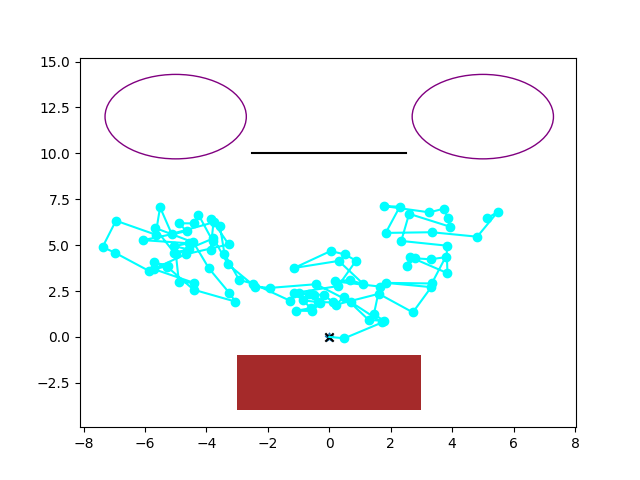
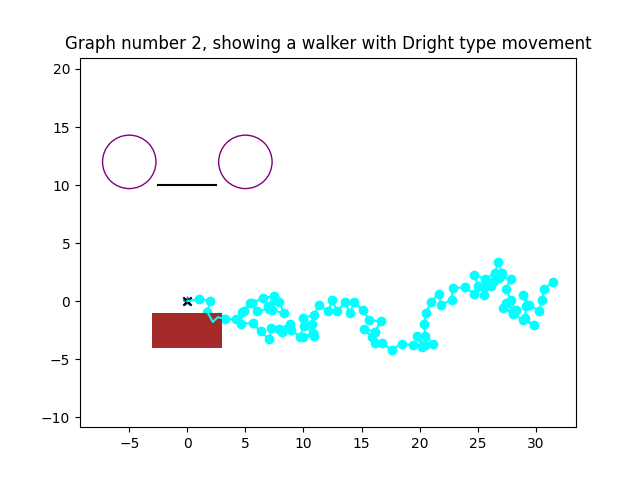
Edits to D type, titles for graphs

diff --git a/Code/walker.py b/Code/walker.py
@@ -14,12 +14,17 @@ import random
 
 Coordinates = Tuple[float,float]
 
+PI = math.pi
 MOVEMENTS = {
                     'A': "Random direction, step size 1 unit",
                     'B': "Random direction, step size chosen equally between [0.5,1.5]",
                     'C': "Random direction chosen equally between (Up,Down,Right,Left),\
                           step size 1 unit",
-                    'D': "Direction chosen at Random but favoring up, step site 1 unit"
+                    'Dup': "Direction chosen at Random but favoring up, step site 1 unit",
+                    'Ddown': "Direction chosen at Random but favoring down, step site 1 unit",
+                    'Dright': "Direction chosen at Random but favoring right, step site 1 unit",
+                    'Dleft': "Direction chosen at Random but favoring left, step site 1 unit",
+                    'Daxis': "Direction chosen at Random but favoring axis, step site 1 unit"
                     }
 COLORS = {'R': "red", 'G': "green", 'Y': "yellow", 'Bl': "blue", 'C': "cyan", 'Or': "orange",
           'Br': "brown", 'P': "Purple", 'Ol': "olive"}
@@ -38,12 +43,17 @@ class Walker:
                         'B': "Random direction, step size chosen equally between [0.5,1.5]",
                         'C': "Random direction chosen equally between (Up,Down,Right,Left),
                              step size 1 unit",
-                        'D': "Direction chosen at Random but favoring up, step site 1 unit"
+                        'Dup': "Direction chosen at Random but favoring up, step site 1 unit",
+                        'Ddown': "Direction chosen at Random but favoring down, step site 1 unit",
+                        'Dright': "Direction chosen at Random but favoring right, step site 1 unit",
+                        'Dleft': "Direction chosen at Random but favoring left, step site 1 unit",
+                        'Daxis': "Direction chosen at Random but favoring axis, step site 1 unit"
                         }
         :param location:a tuple representing the starting place for the Walker,
                         defualts to (0,0) for (x,y)
-        :param color:   a charcter representing the walker's color,
-                        from {'R': "Red", 'B': "Blue", 'G': "Green", 'Y': "Yellow", 'B': "Black"},
+        :param color:   a charcter representing the walker's color, from:
+                        {'R': "red", 'G': "green", 'Y': "yellow", 'Bl': "blue", 'C': "cyan",
+                        'Or': "orange", 'Br': "brown", 'P': "Purple", 'Ol': "olive"},
                         defaults to black.
         """
         self.__location = location
@@ -64,18 +74,18 @@ class Walker:
         DISTANCES = (0.5,1.5)
 
         # For C
-        DIRECTIONS = {'up': math.pi/2,
+        DIRECTIONS = {'up': PI/2,
                       'right': 0,
-                      'down': (3/2)*math.pi,
-                      'left': math.pi}
+                      'down': (3/2)*PI,
+                      'left': PI}
 
         if self.__movement == 'A':
-            angle = 2 * math.pi * random.random()
+            angle = 2 * PI * random.random()
             return (self.__location[0] + math.cos(angle),
                     self.__location[1] + math.sin(angle))
 
         if self.__movement == 'B':
-            angle = 2 * math.pi * random.random()
+            angle = 2 * PI * random.random()
             distance = random.choice(DISTANCES)
             return (self.__location[0] + distance * math.cos(angle),
                         self.__location[1] + distance * math.sin(angle))
@@ -85,8 +95,20 @@ class Walker:
             return (self.__location[0] + int(math.cos(angle)),
                     self.__location[1] + int(math.sin(angle)))
 
-        if self.__movement == 'D':
-            angle = random.gauss(math.pi, math.pi / 2) - math.pi/2
+        if self.__movement[0] == 'D':
+            angle = random.gauss(0, PI / 2)
+            inclination = self.__movement[1:]
+            if inclination in DIRECTIONS:
+                angle += DIRECTIONS[inclination]
+            elif inclination == "axis":
+                if self.__location[0] > 0:
+                    angle += math.tanh(self.__location[1] / self.__location[0]) + PI
+                elif self.__location[0] < 0:
+                    angle += math.tanh(self.__location[1] / self.__location[0])
+                else:
+                    angle -= math.copysign(PI, self.__location[1])
+            else:
+                raise AttributeError("Somewhere the second part of inclination changed")
             return (self.__location[0] + math.cos(angle),
                     self.__location[1] + math.sin(angle))
 
@@ -119,6 +141,13 @@ class Walker:
         return self.__location
 
     @property
+    def movement(self) -> str:
+        """
+        returns the walker's movement type
+        """
+        return self.__movement
+
+    @property
     def color(self) -> str:
         """
         returns a walkers color, as a full name
@@ -137,3 +166,4 @@ def pull_push(walkers: list[Walker], power: int = 1, gravity: bool = True) -> No
     Additional feature for a walkers that attract or push each other, for pairs
     """
     pass
+

diff --git a/Code/main.py b/Code/main.py
@@ -14,12 +14,60 @@ from portal import Portal
 from mud import Mud
 from simulation import Simulation
 
+import tkinter as tk
+from tkinter import filedialog
+import json
+"""
+class SimulationApp:
+    def __init__(self, root):
+        self.root = root
+        self.root.title("Random Walker Simulation")
+
+        # Create a frame to hold the input widgets
+        self.input_frame = tk.Frame(self.root)
+        self.input_frame.pack(padx=20, pady=20)
+
+        # Create a label and entry for number of objects
+        self.num_objects_label = tk.Label(self.input_frame, text="Number of Objects:")
+        self.num_objects_label.grid(row=0, column=0)
+        self.num_objects_entry = tk.Entry(self.input_frame)
+        self.num_objects_entry.grid(row=0, column=1)
+
+        # Create a button to add objects
+        self.add_objects_button = tk.Button(self.input_frame, text="Add Objects", command=self.add_objects)
+        self.add_objects_button.grid(row=0, column=2)
+
+        # Create a button to load simulation from json
+        self.load_button = tk.Button(self.input_frame, text="Load Simulation", command=self.load_simulation)
+        self.load_button.grid(row=1, columnspan=3)
+
+    def add_objects(self):
+        num_objects = int(self.num_objects_entry.get())
+        # Create input widgets for each object
+        for i in range(num_objects):
+            obj_label = tk.Label(self.input_frame, text=f"Object {i+1}:")
+            obj_label.grid(row=i+2, column=0)
+            # Add more input widgets as needed for each object's attributes
+
+    def load_simulation(self):
+        file_path = filedialog.askopenfilename(filetypes=[("JSON Files", "*.json")])
+        if file_path:
+            with open(file_path, 'r') as file:
+                simulation_data = json.load(file)
+            # Process the loaded simulation data, e.g., display key figures and graphs
+
+
+if __name__ == "__main__":
+    root = tk.Tk()
+    app = SimulationApp(root)
+    root.mainloop()
+"""
 
 if __name__ == "__main__":
     simulation = Simulation()
-    letters = "ABCD"
+    letters = ('Dup','Dright','Ddown','Dleft','Daxis')
     colors = "GCYR"
-    for i in range(4):
+    for i in range(5):
         simulation.add_walker(Walker(letters[i], color= colors[1]))
     simulation.add_barrier(Barrier((0,10), 5, 0))
     simulation.add_portal(Portal((5,12),2.3))

diff --git a/Code/graph.py b/Code/graph.py
@@ -17,10 +17,11 @@ Coordinates = Tuple[float,float]
 DESTINATION_PATH = "./Results/"
 
 
-def show_walker_way(movement_log: list[Coordinates], obstacles: Tuple,
+def show_walker_way(name:str, movement_log: list[Coordinates], obstacles: Tuple,
                     file_to_save: str = f"{DESTINATION_PATH}scatterplot", color: str = "black") -> None:
     """
     A function that plots on a graph the path a waker went through.
+    :param name: the title of the Graph
     :param movement_log: a list containing ordered moves made by the walker
     :param file_to_save: the desired filepath in which to save the path taken by the walker
     :param obstacles: tuple containing:
@@ -43,6 +44,8 @@ def show_walker_way(movement_log: list[Coordinates], obstacles: Tuple,
     fig = plt.figure()
     ax = plt.axes()
 
+    plt.title(name)
+
     ax.scatter(x[1:], y[1:], color=color)
     ax.plot(x, y, color=color)
 
@@ -60,6 +63,7 @@ def show_walker_way(movement_log: list[Coordinates], obstacles: Tuple,
         rectangle = patches.Rectangle(*mud, facecolor="brown")
         ax.add_patch(rectangle)
 
+    ax.axis('equal')
     ax.scatter(endpoints_x,endpoints_y, marker= "*")
     ax.scatter(0, 0, color='black', marker='x')
     # fig.show()

diff --git a/Code/simulation.py b/Code/simulation.py
@@ -252,5 +252,6 @@ class Simulation:
         mudspots = [mud.properties for mud in self.__mudspots]
         for index, locations in locations_dict.items():
             color = self.__walkers[index].color
-            graph.show_walker_way(locations, (barriers, portals, mudspots),
+            graph_name = f"Graph number {index + 1}, showing a walker with {self.__walkers[index].movement} type movement"
+            graph.show_walker_way(graph_name,locations, (barriers, portals, mudspots),
                                    file_name+str(index), color)
